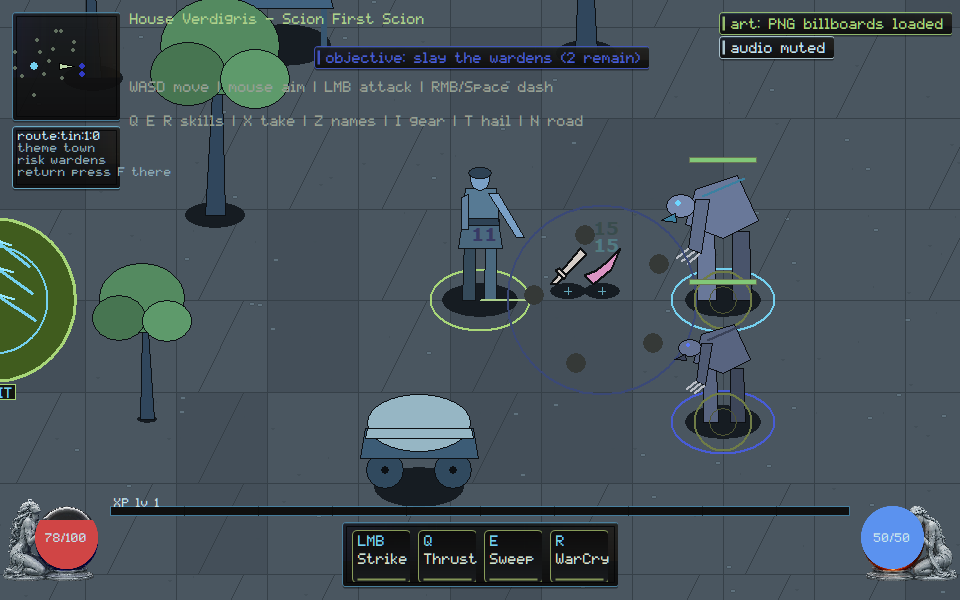
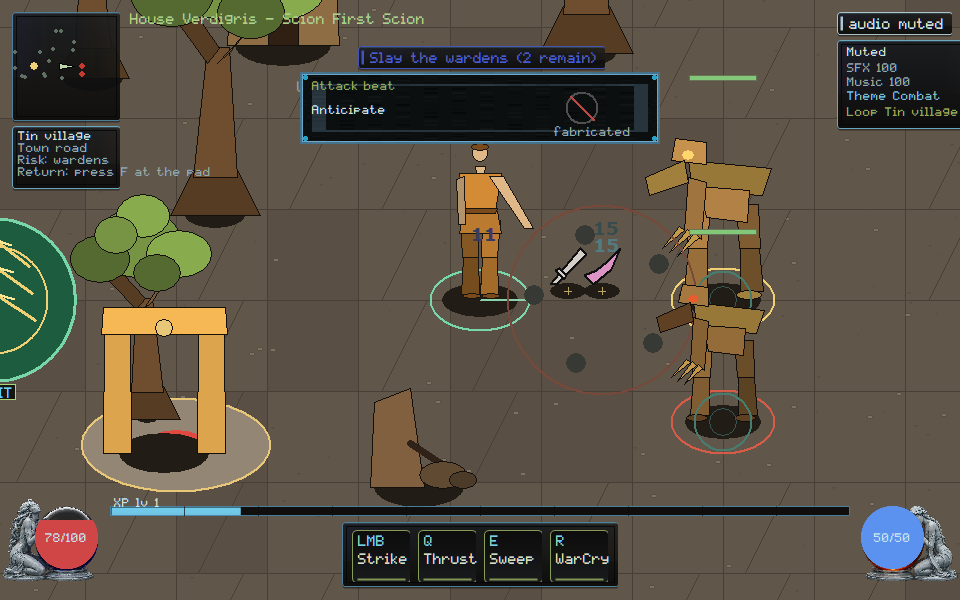
native: name attack beats so a fabricated swing or double-play cannot certify

diff --git a/native/client/main.cpp b/native/client/main.cpp
@@ -58,6 +58,7 @@ namespace phase_a = verdigris::client::phase_a;
 #include "input/preserve-diagonal-remote-input.hpp"
 #include "input/make-aim-independent-of-motion.hpp"
 #include "wire-one-complete-attack-presentation-beat.hpp"
+#include "map-authoritative-combat-beats-to-sound.hpp"
 #include "separate-visual-dressing-from-topology.hpp"
 #include "expose-loot-filter-facts.hpp"
 #include "freeze-three-slice-build-fixtures.hpp"
@@ -477,6 +478,8 @@ struct ClientState {
   bool legal_sounds_review_strip = false;
   bool loot_filter_review_strip = false;
   bool dense_mix_review_strip = false;
+  bool attack_beat_review_strip = false;
+  bool combat_beats_review_strip = false;
   bool debug_overlay = false;
   // Last full paint_scene duration in milliseconds (F3 overlay); the honest
   // per-frame budget readout that catches presentation-cost regressions.
@@ -6464,6 +6467,85 @@ void paint_dense_mix_review_strip(ClientState& state, HDC dc, const RECT& bounds
   SelectObject(dc, old_font);
 }
 
+void paint_attack_beat_review_strip(ClientState& state, HDC dc, const RECT& bounds,
+                                    render::List& rl) {
+  if (!state.attack_beat_review_strip) return;
+  const int s = hud_scale(static_cast<int>(bounds.bottom));
+  const int pane_w = 360 * s;
+  const int pane_h = 72 * s;
+  const int left = (static_cast<int>(bounds.right) - pane_w) / 2;
+  const int top = 72 * s;
+  RECT pane{left, top, left + pane_w, top + pane_h};
+  if (!draw_framekit_nine(state.billboards, dc, state.billboards.fk_panel, pane))
+    skin::panel(dc, pane, skin::kVerdigris, 235, 8.0f);
+  rl.push_back({render::Op::Hud, static_cast<double>(left),
+                static_cast<double>(top), 0.0, 1, "beat-strip"});
+  SetBkMode(dc, TRANSPARENT);
+  HGDIOBJ old_font = SelectObject(dc, skin::font_small());
+  SetTextColor(dc, skin::kVerdigris);
+  const char* title = verdigris::client::combat::owner_beat_label();
+  TextOutA(dc, left + 12 * s, top + 8 * s, title, static_cast<int>(strlen(title)));
+  SetTextColor(dc, skin::kInk);
+  const char* anticipate = verdigris::client::combat::owner_anticipate_beat_label();
+  TextOutA(dc, left + 12 * s, top + 32 * s, anticipate,
+           static_cast<int>(strlen(anticipate)));
+  const int rx = left + pane_w - 78 * s;
+  const int ry = top + 36 * s;
+  ring_ellipse(dc, rx, ry, 16 * s, 16 * s, RGB(80, 80, 80), 2);
+  draw_line(dc, rx - 12 * s, ry - 12 * s, rx + 12 * s, ry + 12 * s, RGB(185, 72, 69),
+            2);
+  SetTextColor(dc, skin::kInkDim);
+  const char* rejected = "fabricated";
+  TextOutA(dc, rx - 28 * s, top + pane_h - 18 * s, rejected,
+           static_cast<int>(strlen(rejected)));
+  rl.push_back({render::Op::Hud, static_cast<double>(left + 12 * s),
+                static_cast<double>(top + 8 * s), 0.0, 1, "beat:attack"});
+  rl.push_back({render::Op::Hud, static_cast<double>(left + 12 * s),
+                static_cast<double>(top + 32 * s), 0.0, 1, "beat:anticipate"});
+  rl.push_back({render::Op::Hud, static_cast<double>(rx), static_cast<double>(ry),
+                0.0, 0, "beat-strip:fabricated-rejected"});
+  SelectObject(dc, old_font);
+}
+
+void paint_combat_beats_review_strip(ClientState& state, HDC dc, const RECT& bounds,
+                                     render::List& rl) {
+  if (!state.combat_beats_review_strip) return;
+  const int s = hud_scale(static_cast<int>(bounds.bottom));
+  const int pane_w = 360 * s;
+  const int pane_h = 72 * s;
+  const int left = (static_cast<int>(bounds.right) - pane_w) / 2;
+  const int top = 72 * s;
+  RECT pane{left, top, left + pane_w, top + pane_h};
+  if (!draw_framekit_nine(state.billboards, dc, state.billboards.fk_panel, pane))
+    skin::panel(dc, pane, skin::kVerdigris, 235, 8.0f);
+  rl.push_back({render::Op::Hud, static_cast<double>(left),
+                static_cast<double>(top), 0.0, 1, "beats-strip"});
+  SetBkMode(dc, TRANSPARENT);
+  HGDIOBJ old_font = SelectObject(dc, skin::font_small());
+  SetTextColor(dc, skin::kVerdigris);
+  const char* title = verdigris::client::audio_beats::owner_beats_label();
+  TextOutA(dc, left + 12 * s, top + 8 * s, title, static_cast<int>(strlen(title)));
+  SetTextColor(dc, skin::kInk);
+  const char* once = verdigris::client::audio_beats::owner_hit_once_label();
+  TextOutA(dc, left + 12 * s, top + 32 * s, once, static_cast<int>(strlen(once)));
+  const int rx = left + pane_w - 78 * s;
+  const int ry = top + 36 * s;
+  ring_ellipse(dc, rx, ry, 16 * s, 16 * s, RGB(80, 80, 80), 2);
+  draw_line(dc, rx - 12 * s, ry - 12 * s, rx + 12 * s, ry + 12 * s, RGB(185, 72, 69),
+            2);
+  SetTextColor(dc, skin::kInkDim);
+  const char* rejected = "double-play";
+  TextOutA(dc, rx - 32 * s, top + pane_h - 18 * s, rejected,
+           static_cast<int>(strlen(rejected)));
+  rl.push_back({render::Op::Hud, static_cast<double>(left + 12 * s),
+                static_cast<double>(top + 8 * s), 0.0, 1, "beats:mapped"});
+  rl.push_back({render::Op::Hud, static_cast<double>(left + 12 * s),
+                static_cast<double>(top + 32 * s), 0.0, 1, "beats:hit-once"});
+  rl.push_back({render::Op::Hud, static_cast<double>(rx), static_cast<double>(ry),
+                0.0, 0, "beats-strip:double-play-rejected"});
+  SelectObject(dc, old_font);
+}
+
 const char* attack_stage_label(vector_art::Pose::AttackStage stage) {
   switch (stage) {
     case vector_art::Pose::AttackStage::Windup:
@@ -7490,6 +7572,8 @@ void paint_scene(ClientState& state, HDC dc, const RECT& bounds) {
   paint_legal_sounds_review_strip(state, dc, bounds, rl);
   paint_loot_filter_review_strip(state, dc, bounds, rl);
   paint_dense_mix_review_strip(state, dc, bounds, rl);
+  paint_attack_beat_review_strip(state, dc, bounds, rl);
+  paint_combat_beats_review_strip(state, dc, bounds, rl);
 
   state.render_list = std::move(rl);
   if (state.debug_overlay) {
@@ -8702,6 +8786,10 @@ int scenario_combat_audio() {
     if (cue.cue_id == "hit") ++hits;
   scenario_check(hits == 1,
                  "combat-audio: replaying the same event cannot double-play");
+  scenario_check(verdigris::client::audio_beats::double_play_fails_review(2),
+                 "combat-audio: two hits for one event fail review");
+  scenario_check(!verdigris::client::audio_beats::double_play_fails_review(hits),
+                 "combat-audio: a single hit for one event certifies mapping");
 
   verdigris::audio::CueSpec filler;
   filler.cue_id = "cosmetic";
@@ -12386,6 +12474,10 @@ int scenario_attack_beat() {
   scenario_present(state);
   scenario_check(has_hud("attack-beat:none") && state.attack_beat_trace.empty(),
                  "attack-beat: a swing sprite without events cannot mint a beat");
+  scenario_check(verdigris::client::combat::fabricated_swing_fails_review(false),
+                 "attack-beat: a fabricated swing fails review");
+  scenario_check(!verdigris::client::combat::fabricated_swing_fails_review(true),
+                 "attack-beat: an event-driven beat is not treated as fabricated");
 
   for (int i = 0; i < 52; ++i)
     scenario_step(state, verdigris::Command::move(1, 0));
@@ -12435,9 +12527,23 @@ int scenario_attack_beat() {
     scenario_check(false, "attack-beat: capture root rejected before any write");
     return scenario_failures;
   }
+  state.attack_beat_review_strip = true;
   const std::string png = dir + "\\attack-beat-960x600.png";
   scenario_check(reference_present(state, 960, 600, png),
                  "attack-beat: live beat capture written");
+  scenario_check(has_hud("beat:attack") && has_hud("beat:anticipate"),
+                 "attack-beat: live HUD names Attack beat and Anticipate");
+  scenario_check(has_hud("beat-strip:fabricated-rejected"),
+                 "attack-beat: live HUD rejects a fabricated swing");
+  state.attack_beat_review_strip = false;
+  state.combat_beats_review_strip = true;
+  const std::string beats_png = dir + "\\combat-beats-960x600.png";
+  scenario_check(reference_present(state, 960, 600, beats_png),
+                 "attack-beat: mapped-beats capture written");
+  scenario_check(has_hud("beats:mapped") && has_hud("beats:hit-once"),
+                 "attack-beat: live HUD names Beats mapped and Hit once");
+  scenario_check(has_hud("beats-strip:double-play-rejected"),
+                 "attack-beat: live HUD rejects double-play");
   return scenario_failures;
 }
 

diff --git a/native/client/map-authoritative-combat-beats-to-sound.hpp b/native/client/map-authoritative-combat-beats-to-sound.hpp
@@ -1,0 +1,15 @@
+#pragma once
+
+// VG-SOUND-003: presentation events map to one voiced cue per event ID.
+// Replaying the same DamageApplied cannot double-play hit. Core event
+// minting stays Kimi (VG-CORE-006).
+
+namespace verdigris::client::audio_beats {
+
+inline const char* owner_beats_label() { return "Beats mapped"; }
+inline const char* owner_hit_once_label() { return "Hit once"; }
+inline bool double_play_fails_review(int hits_for_one_event) {
+  return hits_for_one_event != 1;
+}
+
+}  // namespace verdigris::client::audio_beats

diff --git a/native/client/wire-one-complete-attack-presentation-beat.hpp b/native/client/wire-one-complete-attack-presentation-beat.hpp
@@ -49,4 +49,8 @@ inline AttackBeat dash_cancel(AttackBeat current) {
   return current == AttackBeat::Anticipate ? AttackBeat::Cancel : current;
 }
 
+inline const char* owner_beat_label() { return "Attack beat"; }
+inline const char* owner_anticipate_beat_label() { return "Anticipate"; }
+inline bool fabricated_swing_fails_review(bool event_driven) { return !event_driven; }
+
 }  // namespace verdigris::client::combat

diff --git a/docs/execution/CROSSWALK.md b/docs/execution/CROSSWALK.md
@@ -72,7 +72,7 @@ Cursor evidence notes.
 
 | VG | Disposition | Existing |
 |---|---|---|
-| VG-ACT-007 | new | `attack-beat` event bridge in `ingest_events`; not TASK-0108 and not `native/src/core.cpp` |
+| VG-ACT-007 | new | `attack-beat` event bridge; owner Attack beat / Anticipate; fabricated swing cannot mint. Not TASK-0108 |
 | VG-ACT-005 | new | catalog-typed warning window (`telegraph-spec`); owner strip paints ticks+footprint; ms/50 cannot invent a longer cone. Core ACT stays Kimi |
 | VG-ACT-001–006, 008 | new / extend | Kimi lease (`native/src/**`) |
 
@@ -236,9 +236,13 @@ VG-MOVE-002: `player:move` does not replace held aim; local tick
 re-applies aim after move. Scenario `aim-hold`. Core `resolve_move` still
 turns facing — that is the defect the adapter covers.
 VG-ACT-007: AttackStarted/DamageApplied/ActorDied drive
-`attack-beat:*`. A fabricated swing cannot mint the beat. Scenario
-`attack-beat`. Core melee resolution stays with Kimi.
-Evidence `docs/execution/evidence/VG-ACT-007.json`.
+`attack-beat:*`. Owner strip paints Attack beat / Anticipate. A
+fabricated swing cannot mint the beat. Scenario `attack-beat`. Core melee
+resolution stays with Kimi. Evidence `docs/execution/evidence/VG-ACT-007.json`.
+VG-SOUND-003: ordinary fight voices hit and death; the same event ID
+cannot double-play. Owner strip paints Beats mapped / Hit once. Scenario
+`attack-beat` capture `combat-beats`. Evidence
+`docs/execution/evidence/VG-SOUND-003.json`.
 VG-ACT-005: local ticks and remote `durationMs` share
 `presentation_catalog().telegraph_ticks` and reach. `value/50` cannot
 invent a longer window. Owner strip paints Thrust/Sweep ticks and

diff --git a/docs/rebuild/HANDOFF.md b/docs/rebuild/HANDOFF.md
@@ -1,5 +1,16 @@
 # Native reconstitution handoff
 
+## 2026-09-06 — attack beat and mapped cues (Cursor)
+
+- VG-ACT-007: owner Attack beat strip paints Anticipate. A fabricated
+  swing cannot mint a beat. AttackStarted/DamageApplied/ActorDied still
+  drive `attack-beat:*`; dash during anticipate is cancel.
+- VG-SOUND-003: owner Beats mapped strip paints Hit once. Replaying the
+  same event ID cannot double-play. Capture is `combat-beats`, not the
+  stale shared spawn.
+- Scenarios `attack-beat` / `combat-audio` PASS. Captures viewed. Core
+  ACT stays Kimi. Does not re-spec TASK-0108. Not Owner Demo.
+
 ## 2026-09-06 — encounter mix on the packed fight (Cursor)
 
 - VG-SOUND-007: owner Encounter mix strip paints Hit + warning. An
@@ -529,8 +540,9 @@ owner-stamped. Dual program heads: this branch vs
 
 - VG-ACT-007: `ingest_events` maps AttackStarted → anticipate (plus
   `attack-anticipate` cue), DamageApplied → impact, ActorDied →
-  aftermath, dash during anticipate → cancel. A swing effect with no
-  sim event cannot mint `attack-beat:*`. Scenario `attack-beat`. Capture
+  aftermath, dash during anticipate → cancel. Owner Attack beat /
+  Anticipate; a fabricated swing cannot mint `attack-beat:*`. Scenario
+  `attack-beat`. Capture
   `docs/execution/captures/art-wave/attack-beat-960x600.png`. Does not
   edit `native/src/core.cpp` or re-spec TASK-0108.
 

diff --git a/orchestration/CURSOR_KIMI_LANES.md b/orchestration/CURSOR_KIMI_LANES.md
@@ -624,3 +624,13 @@ Please move off that branch before taking a new native path.
 - **Stay off** `native/client/main.cpp` and `docs/execution/**`. SEC/CORE
   remain yours. GOV-002 still unstamped.
 
+## Cursor reply (2026-09-06, attack beat and mapped cues)
+
+- **Lease:** `main.cpp` still **ACTIVE**. `remote_session.cpp` stays
+  **RELEASED**. Do not re-spec TASK-0108 core/wire (`3b929637`).
+- **Landed this push:** VG-ACT-007 — Attack beat / Anticipate; fabricated
+  swing rejected. VG-SOUND-003 — Beats mapped / Hit once; double-play
+  rejected. Captures viewed. Core ACT stays yours. Not Owner Demo.
+- **Stay off** `native/client/main.cpp` and `docs/execution/**`. SEC/CORE
+  remain yours. GOV-002 still unstamped.
+
